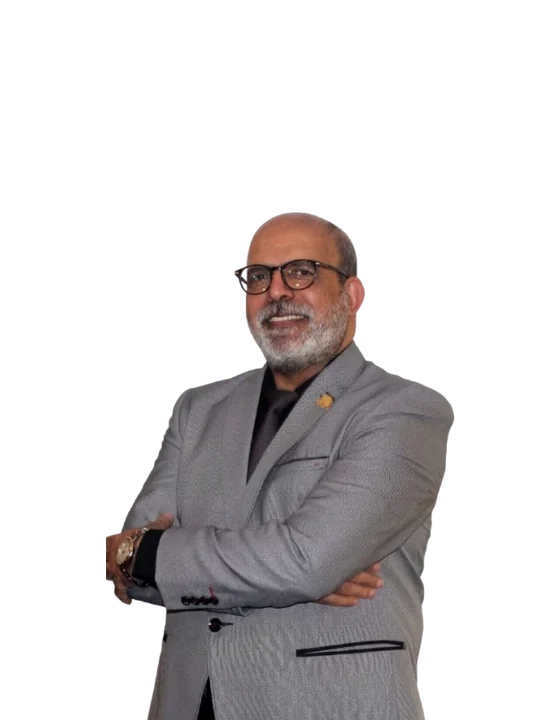
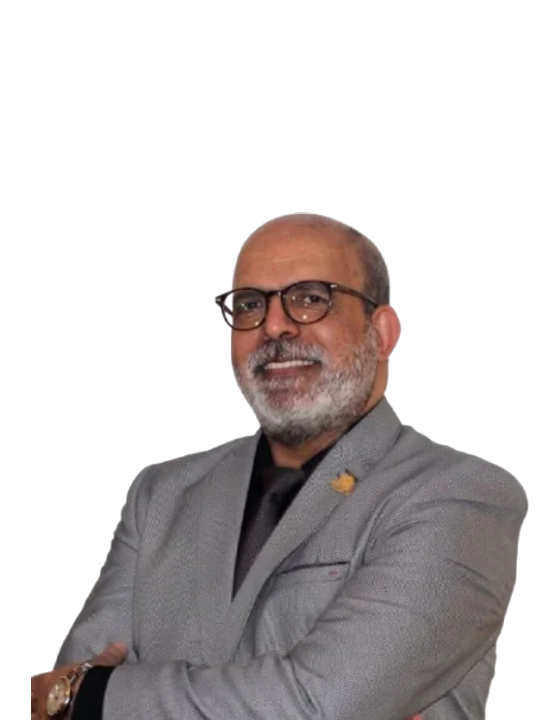
Add El-Naggar and Emad El-Banna as grand speakers
Both use their existing honoree titles with no invented copy. El-Naggar's portrait is zoomed to match the other grand speakers; Emad gets a new portrait from the honoree source. Tests and browser QA updated for seven cards.

Changed region(s): [[0.0304, 0.275, 0.9411, 1.0]]

diff --git a/tests/speakers.test.ts b/tests/speakers.test.ts
@@ -6,13 +6,21 @@ import sharp from "sharp";
 import { speakers } from "../lib/content";
 import { honoreeGroups } from "../lib/honorees";
 
-test("speakers data: the five confirmed speakers are listed in order", () => {
+test("speakers data: the seven confirmed speakers are listed in order", () => {
   assert.deepEqual(
     speakers.map((speaker) => speaker.id),
-    ["wael-el-shaer", "wael-sakr", "osama-abdelhay", "malak", "nada-el-sayem"]
+    [
+      "wael-el-shaer",
+      "wael-sakr",
+      "osama-abdelhay",
+      "abdel-nasser-el-naggar",
+      "emad-el-banna",
+      "malak",
+      "nada-el-sayem",
+    ]
   );
 
-  const [elshaer, sakr, osama, malak, nada] = speakers;
+  const [elshaer, sakr, osama, naggar, emad, malak, nada] = speakers;
   assert.equal(elshaer.group, "grand");
   assert.equal(elshaer.name, "Prof. Dr. Wael El-Shaer");
   assert.equal(elshaer.role, "Head of the Department of Plastic Surgery");
@@ -28,6 +36,17 @@ test("speakers data: the five confirmed speakers are listed in order", () => {
   assert.equal(osama.name, "Prof. Dr. Osama Abdelhay");
   assert.equal(osama.role, "President of the Egyptian Medical Syndicate");
   assert.equal(osama.affiliation, null);
+  assert.equal(naggar.group, "grand");
+  assert.equal(naggar.name, "Prof. Dr. Abdel-Nasser El-Naggar");
+  assert.equal(naggar.role, "Professor of Plastic Surgery");
+  assert.equal(naggar.affiliation, "Beni Suef University");
+  assert.equal(emad.group, "grand");
+  assert.equal(emad.name, "Prof. Dr. Emad El-Banna");
+  assert.equal(
+    emad.role,
+    "President of the Beni Suef Medical Syndicate and Director of University Hospitals"
+  );
+  assert.equal(emad.affiliation, null);
   assert.equal(malak.group, "student");
   assert.equal(malak.name, "Malak Ashraf");
   assert.equal(malak.role, "4th year medical student");
@@ -67,7 +86,7 @@ test("speakers photos: portrait variants exist, are 560x720, and stay under 70KB
   }
 });
 
-test("speakers data: the three grand speakers are also special guests", () => {
+test("speakers data: the five grand speakers are also special guests", () => {
   const guests = honoreeGroups.find((group) => group.id === "special-guests");
   assert.ok(guests, "special-guests group must exist");
   const guestIds = new Set(guests.people.map((person) => person.id));
@@ -89,7 +108,7 @@ test("speakers data: the plastic-surgery guests lead the special-guests list on 
   );
 });
 
-test("honorees data: the three plastic-surgery guests carry their supplied titles", () => {
+test("honorees data: the four plastic-surgery guests carry their supplied titles", () => {
   const guests = honoreeGroups.find((group) => group.id === "special-guests");
   assert.ok(guests, "special-guests group must exist");
 
@@ -109,5 +128,9 @@ test("honorees data: the three plastic-surgery guests carry their supplied title
   assert.equal(
     byId.get("osama-abdelhay")?.title,
     "President of the Egyptian Medical Syndicate"
+  );
+  assert.equal(
+    byId.get("emad-el-banna")?.title,
+    "President of the Beni Suef Medical Syndicate and Director of University Hospitals"
   );
 });

diff --git a/lib/content.ts b/lib/content.ts
@@ -84,6 +84,32 @@ export const speakers: Speaker[] = [
     links: [],
   },
   {
+    id: "abdel-nasser-el-naggar",
+    group: "grand",
+    name: "Prof. Dr. Abdel-Nasser El-Naggar",
+    credentials: null,
+    role: "Professor of Plastic Surgery",
+    affiliation: "Beni Suef University",
+    photoUrl: "/people/abdel-nasser-el-naggar-portrait.webp",
+    bio: null,
+    sessionTitle: null,
+    sessionAbstract: null,
+    links: [],
+  },
+  {
+    id: "emad-el-banna",
+    group: "grand",
+    name: "Prof. Dr. Emad El-Banna",
+    credentials: null,
+    role: "President of the Beni Suef Medical Syndicate and Director of University Hospitals",
+    affiliation: null,
+    photoUrl: "/people/emad-el-banna-portrait.webp",
+    bio: null,
+    sessionTitle: null,
+    sessionAbstract: null,
+    links: [],
+  },
+  {
     id: "malak",
     group: "student",
     name: "Malak Ashraf",

diff --git a/working.md b/working.md
@@ -1,6 +1,7 @@
 # COMPASS working log
 
 ## Current state
+- **El-Naggar and Emad El-Banna added as grand speakers (2026-11-18, user request):** both join `speakers` in `lib/content.ts` with `group: "grand"` and their existing honoree titles (El-Naggar: Professor of Plastic Surgery, Beni Suef University; El-Banna: President of the Beni Suef Medical Syndicate and Director of University Hospitals). No invented bio/session/link copy. `public/people/emad-el-banna-portrait.webp` is new, produced from `assets-src/people/emad-el-banna.png` by `.playwright-cli/process-speakers.mjs`'s `portraitOnly` mode; El-Naggar's portrait was already there. The Grand Speakers grid now has five cards (3 + 2) above the two student cards. Unit tests and `qa-assert.mjs` updated for seven speakers. El-Naggar's speaker portrait was later zoomed in (trimmed to 70% of its content height at the line the user marked) so his bust fills the plate at the same scale as the others; his About guest tile is untouched.
 - **Speaker guests lead the About guest list (2026-11-18, user request):** the four plastic-surgery guests — El-Shaer, Sakr, Osama Abdelhay and guest-only Abdel-Nasser El-Naggar — are the first four entries in `special-guests` in `lib/honorees.ts`, in speakers order; the rest keep their original order. `tests/speakers.test.ts` and `scripts/qa-assert.mjs` assert the first four guest cards.
 - **Nada's vote card uses the replacement PNG (2026-11-18, user request):** `scripts/process-voting.mjs` now reads `public/Student presenters png/Nada_El-Sayem png.png` for `dna-origami-nanorobotics` and accepts an optional output-name argument so one cutout can be rebuilt without touching the others (`node scripts/process-voting.mjs dna-origami-nanorobotics`). The regenerated `public/voting/dna-origami-nanorobotics.png` is a centred bust with no hard right edge, and the now-unneeded `photoShift: -7.7` was removed from that candidate in `lib/voting-candidates.json`. Verified lint, typecheck, 117/117 unit tests, build and `voting-qa` 50/50 (Supabase mocked, no live data touched).
 - **Speakers page: five cards in two titled groups (2026-11-17, user request):**
